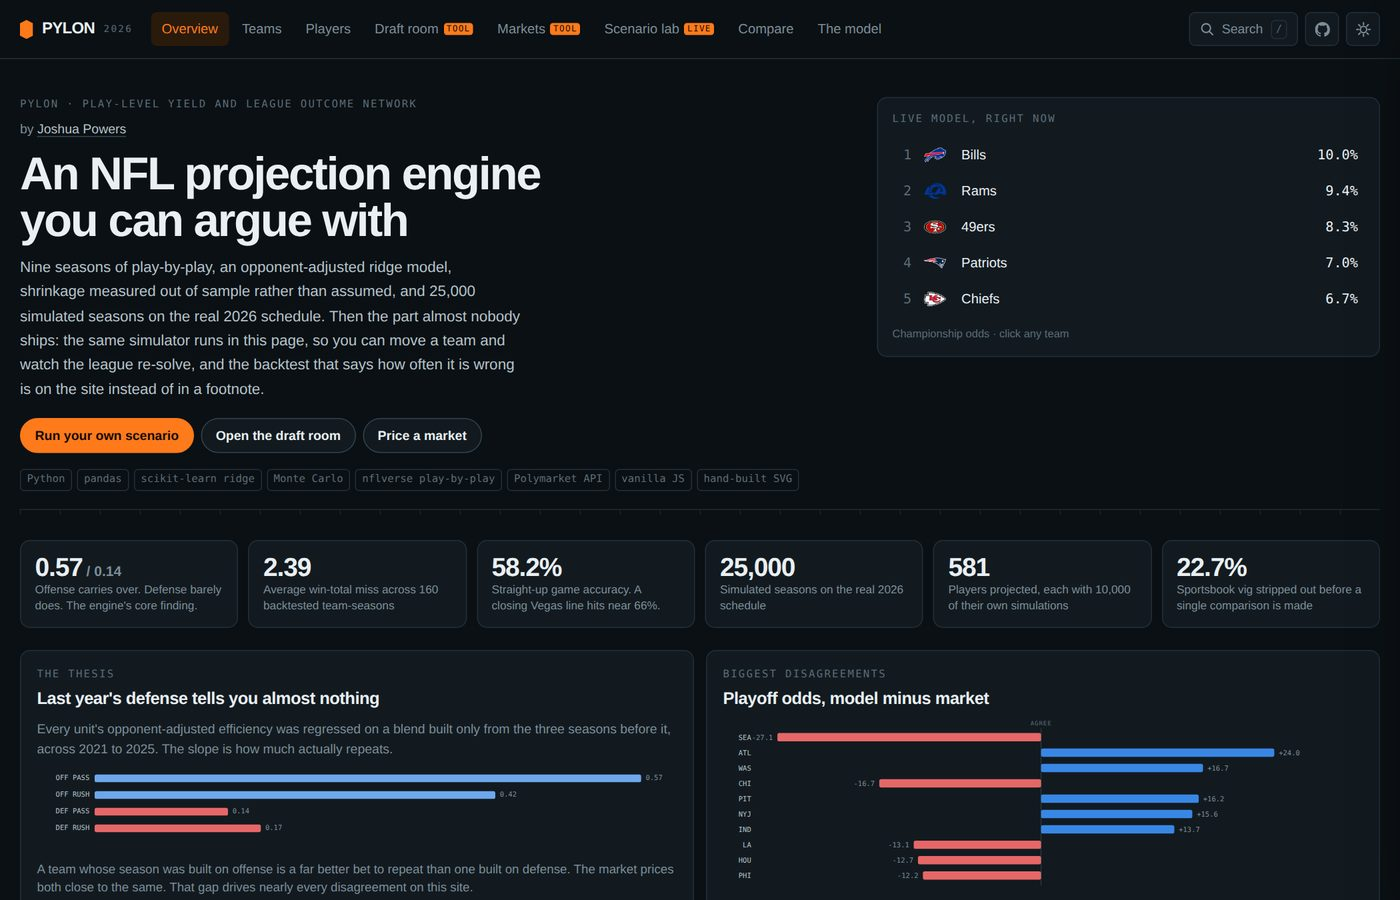
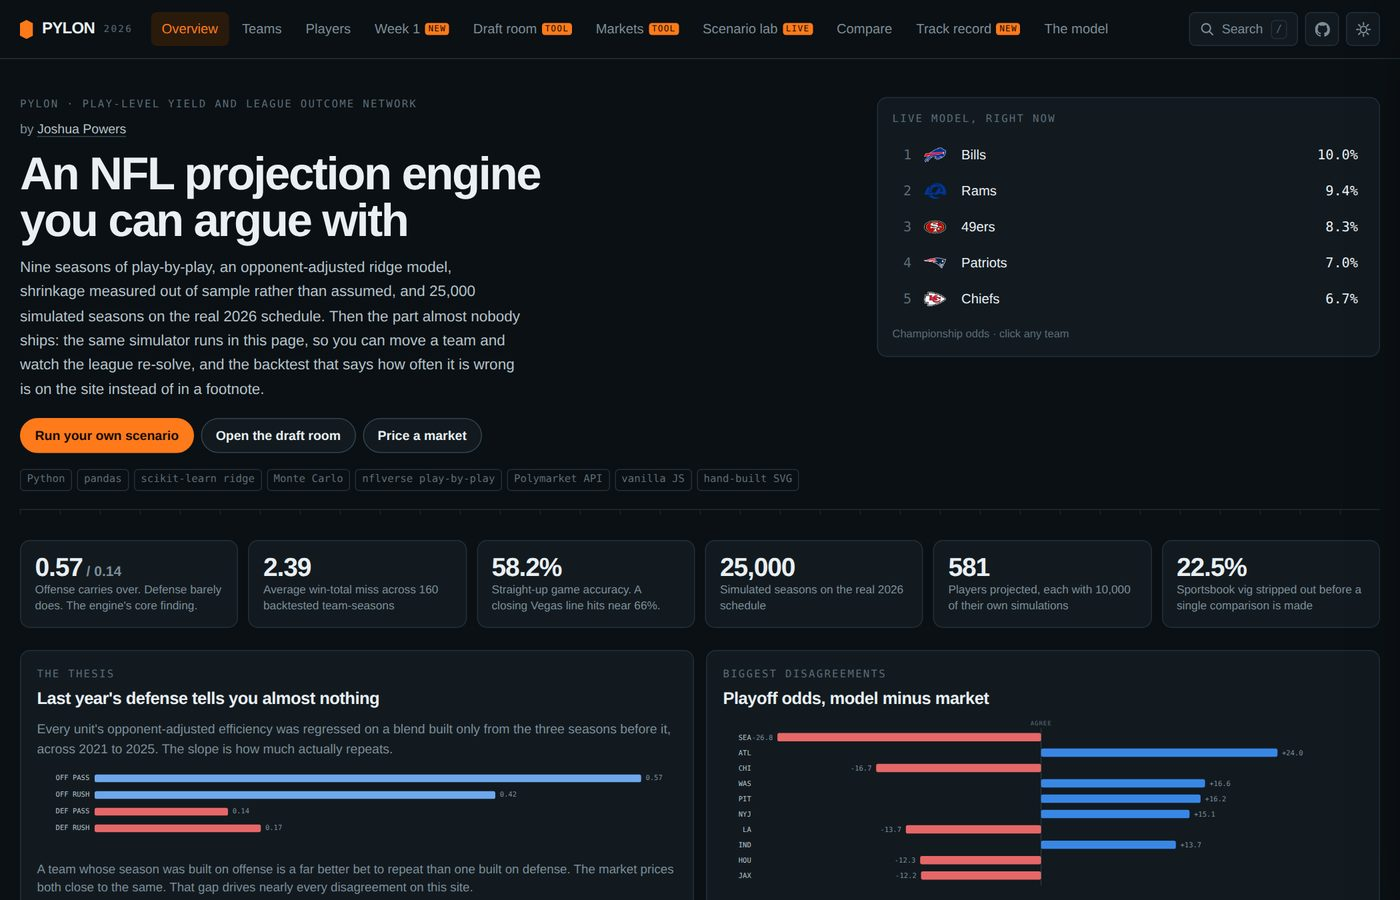
Refresh screenshots for the new pages

diff --git a/README.md b/README.md
@@ -70,6 +70,8 @@ games that came next.
 **In-season updating is worth 4.2 percentage points**, which closes most of the gap
 to a closing Vegas line at roughly 66%.
 
+![Track record](docs/03-track-record.jpg)
+
 The blend is a conjugate-style weight, `rating = w * in-season + (1 - w) * preseason`
 with `w = games / (games + k)`. The constant `k` is fitted by sweeping it across
 three seasons and keeping whichever value predicted best. It landed on **8**, so this
@@ -207,9 +209,22 @@ Note the two conference books sum to **under** 100%. The same event priced two w
 
 ---
 
+## Week 1, game by game
+
+![Week 1 matchups](docs/02-week1-matchups.jpg)
+
+A projected score, a winner and a total for every game, with the posted line beside
+it in plain English. The margin comes from the calibrated game model and the total
+from a fitted scoring model, so the two can never imply an impossible pair of team
+scores. Across Week 1 the model sits within 1.6 points of the closing line on
+average, which is what should happen: a preseason model that routinely disagreed
+with the market by a touchdown would be broken, not brilliant.
+
+---
+
 ## The web terminal
 
-![Scenario lab](docs/02-scenario-lab.jpg)
+![Scenario lab](docs/04-scenario-lab.jpg)
 
 A single self-contained HTML file. No framework, no chart library, no network calls at runtime. Every chart is hand-built SVG and the full data bundle plus all 32 logos are inlined.
 
@@ -217,11 +232,11 @@ A single self-contained HTML file. No framework, no chart library, no network ca
 
 **Draft room.** Value over replacement recomputed for league size and scoring on every pick, so twelve-team full PPR and ten-team standard produce genuinely different boards. Tier breaks, and scarcity measured as startable players remaining above replacement. Persists to `localStorage`.
 
-![Draft room](docs/03-draft-room.jpg)
+![Draft room](docs/05-draft-room.jpg)
 
 **Markets.** Power-method de-vig, then expected value and Kelly sizing against an editable price. Stakes are scaled to a deployment cap and the scaling factor is disclosed, because these markets are nested rather than independent and summing line-by-line Kelly across them produces allocations well over 100% of a bankroll.
 
-![Markets](docs/04-markets.jpg)
+![Markets](docs/06-markets.jpg)
 
 ---
 
